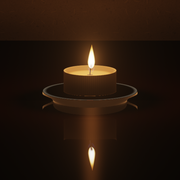
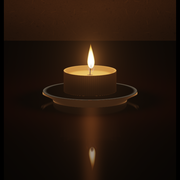
映り込みを弱く ぼかし、ろうそくを主役に。閉じたら音楽を止める。1曲目を少し小さく

diff --git a/js/shader.js b/js/shader.js
@@ -33,6 +33,7 @@ const float K  = 0.2;    // 見下ろす角度(上の面のだ円のつぶれ具
 const float DW = 22.0;   // 壁までの距離
 const float YJ = 4.4;    // 壁と台のさかい目(画面上の高さ) = K*DW
 float gSide = 0.0;
+float gNoFlame = 0.0;    // 1 = 炎は描かない(映り込みのぼかし用)
 float gRefl = 0.0;       // 1 = 映り込みを描いている(上の面は映らない)       // いま描いた点が ろうそくの手前の横の面か(炎や芯をかくすため)
 
 float hash(vec2 p){ p = fract(p*vec2(123.34, 456.21)); p += dot(p, p+45.32); return fract(p.x*p.y); }
@@ -504,7 +505,7 @@ vec3 objects(vec2 p, out float cover){
   vec4 w = wick(p);
   w.a *= 1.0 - front;
   col = mix(col, w.rgb, w.a); cover = max(cover, w.a);
-  col += flameEmit(p)*(1.0 - max(front, gRefl*cover));
+  if (gNoFlame < 0.5) col += flameEmit(p)*(1.0 - max(front, gRefl*cover));
   return col;
 }
 
@@ -522,19 +523,30 @@ void main(){
     float Rb0 = uHold.x > 0.5 ? max(holderR(0.01), 0.1) : uBody.z;
     float yb = -K*sqrt(max(Rb0*Rb0 - p.x*p.x, 0.0));
     if (p.y < yb + 0.02){
-      float rough = (vnoise(vec2(p.x*0.8, p.y*0.5)) - 0.5)*0.025*(-p.y);
+      // 漆の面は 鏡ほど平らではない → 3か所を少しずらして見て 平均し、ぼかす(遠いほど強く ぼける)
+      float dist = yb - p.y;
+      float rough = (vnoise(vec2(p.x*0.8, p.y*0.5)) - 0.5)*0.04*dist;
       vec2 pm = vec2(p.x + rough, 2.0*yb - p.y);
-      float cv;
-      gRefl = 1.0;
-      vec3 rc = objects(pm, cv) + halo(pm)*0.6;
+      float spread = 0.06 + dist*0.09;
+      float cv, cv1, cv2, cv3;
+      gRefl = 1.0; gNoFlame = 1.0;
+      vec3 rc = objects(pm + vec2(-spread, 0.3*spread), cv1)
+              + objects(pm + vec2(0.0, -0.4*spread), cv2)
+              + objects(pm + vec2(spread, 0.3*spread), cv3);
+      gNoFlame = 0.0;
+      // 炎は1か所だけ うすく(ずらして重ねると 炎が いくつにも見えるため)。ゆらぎで にじませる
+      vec2 pf = pm + vec2((vnoise(vec2(p.y*1.5, uTime*0.5)) - 0.5)*0.08*dist, 0.0);
+      vec3 rf = flameEmit(pf)*(1.0 - (cv1 + cv2 + cv3)/3.0);
       gRefl = 0.0;
-      float fall = exp(p.y/22.0);
-      col = mix(col, col*0.3, cv*0.5);
-      col += rc*0.38*fall;
+      rc = rc/3.0 + rf*0.22 + halo(pm)*0.35;
+      cv = (cv1 + cv2 + cv3)/3.0;
+      float fall = exp(-dist/9.0);
+      col = mix(col, col*0.5, cv*0.4*fall);
+      col += rc*0.2*fall;
       // 縦に のびる ぼんやりした光の帯
       float dx = (p.x - uLP.x)/(uFlame.y*1.3 + 0.2);
       float dyv = (p.y + uLP.y)/(uFlame.x*2.6 + 2.0);
-      col += lightCol()*uLight.x*uFlameP.x*0.0012*exp(-dx*dx - dyv*dyv);
+      col += lightCol()*uLight.x*uFlameP.x*0.0009*exp(-dx*dx - dyv*dyv);
     }
   }
 

diff --git a/js/app.js b/js/app.js
@@ -158,6 +158,7 @@ addEventListener('pointerup', (e) => {
   if (!down) return;
   const d = down; down = null;
   if (phase !== 'lit') return;                    // 灯すのは click で(iPhone で音を出せるように)
+  if (st.musicOn && music.tracks.length && (music.audio.paused || !music.playing) && !sleepEnd) { if (music.ctx) music.ctx.resume(); if (!music.playing) music.play(3); }
   const dx = e.clientX - d.x, dy = e.clientY - d.y;
   // 操作が出ているときだけ、左右にはらうと ろうそくが変わる
   if (d.wasOn && Math.abs(dx) > 80 && Math.abs(dy) < Math.abs(dx) * 0.5) {
@@ -327,9 +328,13 @@ async function wake(on) {
   } catch (e) { if (on) $('wakeNote').hidden = false; }
 }
 if (!('wakeLock' in navigator)) $('wakeNote').hidden = false;
+// アプリを閉じたら(ほかのアプリへ・画面を消す)、音楽も すぐ止める。もどったら また流す
+let resumeMusic = false;
+function closeSound() { if (music.pauseNow()) resumeMusic = true; refreshLabels(); }
+addEventListener('pagehide', closeSound);
 document.addEventListener('visibilitychange', () => {
-  if (document.hidden) { scene.stop(); return; }
-  if (music.ctx && music.ctx.state !== 'running' && music.playing) music.ctx.resume();
+  if (document.hidden) { scene.stop(); closeSound(); return; }
+  if (resumeMusic && phase === 'lit') { resumeMusic = false; if (music.ctx) music.ctx.resume(); music.play(3); }
   if (phase === 'slept') {
     // 暗くなる途中で離れていたら、真っ暗にしておく
     scene.fade = scene.fadeTarget = 1; scene.draw();

diff --git a/js/scene.js b/js/scene.js
@@ -139,9 +139,11 @@ export class Scene {
     const wide = Math.max(c.holder.R || 0, c.body.Rt, c.body.Rb) * 2;
     const portrait = Hp > W;
     const eff = 25 * Math.pow(top / 25, 0.5);   // 小さいろうそくも 拡大しすぎない(部屋の大きさを そろえる)
-    let S = (portrait ? 0.42 : 0.56) * Hp / eff;
+    let S = (portrait ? 0.56 : 0.62) * Hp / eff;
     S = Math.min(S, Hp * 0.12 / c.flame.h * 2.2, (portrait ? 0.55 : 0.38) * W / wide);
-    const baseY = portrait ? Hp * 0.34 : Hp * 0.22;
+    // ろうそく(台から炎の先まで)の真ん中が、画面の高さの 46% あたりにくるように置く。
+    // 背の高いろうそくは 下のほうへ(映り込みの見える所を せまく)、小さな灯は 今までどおり
+    const baseY = Math.max(Hp * (portrait ? 0.17 : 0.13), Hp * 0.46 - top * S / 2);
     return { S, ox: W / 2 + this.shift[0] * W, oy: baseY + this.shift[1] * Hp };
   }
 

diff --git a/js/music.js b/js/music.js
@@ -86,6 +86,16 @@ export class Music {
     this.changed();
   }
 
+  // アプリを閉じたとき: すぐ止める(「かけていた」ことは覚えたまま)
+  pauseNow() {
+    if (!this.playing) return false;
+    this.playing = false;
+    clearTimeout(this.gapTimer);
+    if (this.gain) { this.gain.gain.cancelScheduledValues(0); this.gain.gain.value = 0; }
+    this.audio.pause();
+    return true;
+  }
+
   toggle() { this.playing ? this.stop() : this.play(); }
 
   setVolume(v) {

diff --git a/CLAUDE.md b/CLAUDE.md
@@ -40,6 +40,11 @@
 - はじめの明るさは 5段階の2番目(夜向け)。
 - 画面が消えても おやすみは1秒ごとの見張りで必ず終わる。灯を消して1分たつと描くのを止める。
 
+## ノブさんの直し(2026-10-22 夕方)
+- 1曲目の音を もう少し小さく(gain 0.6)。アプリを閉じたら(ほかのアプリ・画面を消す)音楽も すぐ止める。もどったら また流す。
+- 漆の映り込みが目立ちすぎ → 弱く・ぼかす(3か所の平均。炎は1か所だけ うすく)。主役は上のろうそく。
+- 細長いろうそくを大きく、下のほうへ(ろうそくの真ん中が画面の46%)。小さな灯(豆皿)のバランスが お手本。
+
 ## まだのこと
 - 実機(iPhone / Android)で見ていない。とくに: 重さ・電池、音(iPhone の消音スイッチ)、画面つけっぱなし、LINE の中。
 - 2026-10-22 ノブさん OK で GitHub Pages 公開: https://roguepink.github.io/rosoku/
